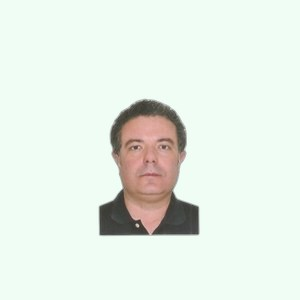
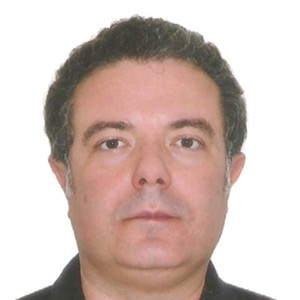
Update speaker photos with new provided images
- Replace Girardi (image2), Koukounaras (image6), Bettoni (image8) headshots
  with new photos supplied by organizer (processed to 300x300 JPEG)
- Add real photos for Chinese speakers Feng Ming and Li Wei,
  replacing placeholder initials avatars on founding-meeting.html

diff --git a/founding-meeting.html b/founding-meeting.html
@@ -327,7 +327,7 @@
         </div>
 
         <div class="profile">
-          <div class="profile-avatar">LW</div>
+          <img src="assets/speakers/image_liwei.jpg" alt="Prof. Li Wei" style="width:64px;height:64px;border-radius:50%;object-fit:cover;flex-shrink:0">
           <div>
             <div class="profile-name">Prof. Li Wei <span style="font-weight:400;color:var(--ipgs-stone-400);font-size:.85rem">(李威)</span></div>
             <p class="profile-affil">China Agricultural University, Beijing</p>
@@ -336,7 +336,7 @@
         </div>
 
         <div class="profile">
-          <div class="profile-avatar">FM</div>
+          <img src="assets/speakers/image_fengming.jpg" alt="Prof. Feng Ming" style="width:64px;height:64px;border-radius:50%;object-fit:cover;flex-shrink:0">
           <div>
             <div class="profile-name">Prof. Feng Ming <span style="font-weight:400;color:var(--ipgs-stone-400);font-size:.85rem">(冯明)</span></div>
             <p class="profile-affil">Shandong Agricultural University, Tai'an</p>
